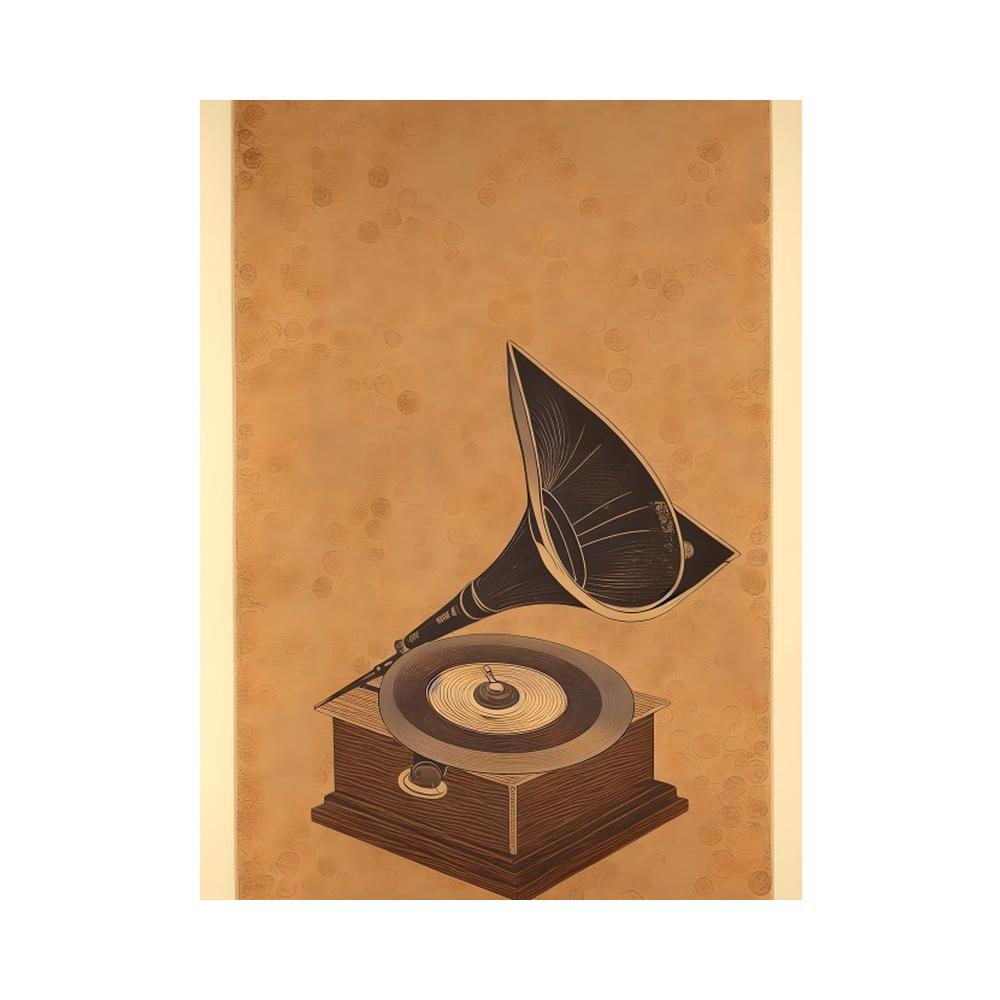
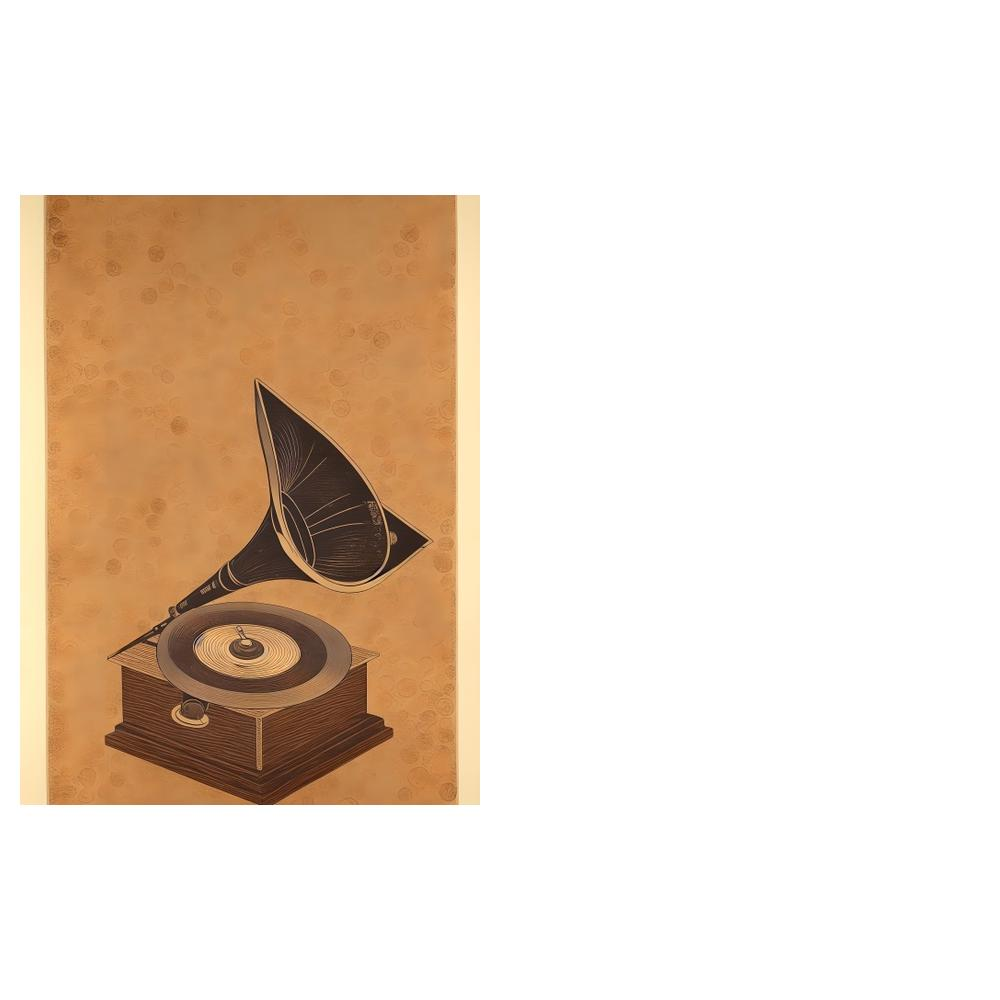
First push

diff --git a/my_contact_sheets.py b/my_contact_sheets.py
@@ -10,14 +10,21 @@ def create_contact_sheet(images_path, output_size: int = 1000):
     rows = 0
     cols = 0
 
-    margin = output_size * 0.1
-
+    margin = output_size * 0.01
+    img = Image.open(images[0])
     if len(images) == 2:
         rows = 1
         cols = 2
-    thumb_height = int(output_size / rows - (2 * rows * margin))
+
+    if cols >= rows:
+        thumb_width = int(output_size / cols - (2 * cols * margin))
+        thumb_height = int(thumb_width * img.height / img.width)
+
+
+
+    # thumb_height = int(output_size / rows - (2 * rows * margin))
+    # thumb_width = int(thumb_height * img.width / img.height)
     img = Image.open(images[0])
-    thumb_width = int(thumb_height * img.width / img.height)
     image_index = 0
     x=0
     for r in range(rows):
